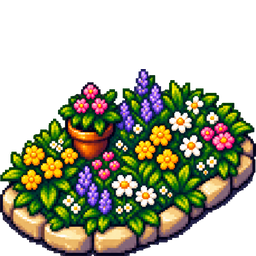
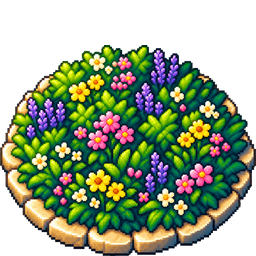
Transit sprites, a corrected flowerbed, and avenue road paint
Authored by Codex; committed here after independent verification.

Both open art items are done. The transit family has real sprites at
assets/transit/m{1,2,3}.png wired into infrastructureSpriteUrls, with
drawTransit kept as the pre-load fallback the other families all have. The
flowerbed was regenerated against the tree as its sole camera reference,
and the telling detail is that decorationMetrics.B is now identical to T
again — the old 1.10/0.93 nudge existed only to hide a camera mismatch, so
its removal is the evidence the mismatch is genuinely gone rather than
compensated for.

Codex then gave avenues their own road paint: double yellow centre lines,
dashed lane dividers, corner paint and zebra approach bars at junctions,
with wider bridge decks and outward railings. drawBridge takes an optional
avenue flag; wet() and the odd-level bridge test are untouched, so avenue
bridges still keep water underneath them.

Verified rather than taken on trust: 27/27 node tests, 7/7 QML hover tests,
qmllint, plugin validation and diff check all clean; all four PNGs are
256x256 with genuine alpha; runtime files and new assets match the installed
plugin byte-for-byte; the shell was restarted after deployment and its
journal is clean. The structural guard on the tier flyout still passes, so
the sprite wiring did not disturb the root-level flyout.

diff --git a/CityView.qml b/CityView.qml
@@ -783,6 +783,7 @@ Item {
   // Infrastructure tiers are zero-based (unlike the 1–3 zone growth levels).
   property bool useInfrastructureSprites: true
   readonly property var infrastructureSpriteUrls: ({
+    M: [Qt.resolvedUrl("assets/transit/m1.png").toString(), Qt.resolvedUrl("assets/transit/m2.png").toString(), Qt.resolvedUrl("assets/transit/m3.png").toString()],
     H: [Qt.resolvedUrl("assets/medical/h1.png").toString(), Qt.resolvedUrl("assets/medical/h2.png").toString(), Qt.resolvedUrl("assets/medical/h3.png").toString()],
     N: [Qt.resolvedUrl("assets/schools/n1.png").toString(), Qt.resolvedUrl("assets/schools/n2.png").toString(), Qt.resolvedUrl("assets/schools/n3.png").toString()],
     E: [Qt.resolvedUrl("assets/power/e1.png").toString(), Qt.resolvedUrl("assets/power/e2.png").toString(), Qt.resolvedUrl("assets/power/e3.png").toString()],
@@ -793,18 +794,11 @@ Item {
   })
   readonly property var spriteLotTints: ({ R: "rgba(80, 120, 78, 0.08)", C: "rgba(92, 122, 148, 0.12)", I: "rgba(122, 115, 97, 0.11)", E: "rgba(201, 162, 39, 0.10)", W: "rgba(47, 111, 148, 0.10)", F: "rgba(193, 67, 54, 0.08)", S: "rgba(58, 111, 224, 0.10)", P: "rgba(80, 132, 77, 0.08)", M: "rgba(197, 133, 47, 0.10)" })
 
-  // Decoration sprites are trimmed and then bottom-centred inside a 256px
-  // frame (see assets/decorations/PROMPTS.md), so how much of that frame each
-  // one actually paints differs a lot: the tree fills its full height, while
-  // the flowerbed is a wide flat oval covering only the bottom ~73%. Drawing
-  // both as the same bottom-anchored square left the bed visibly undersized,
-  // ringed by bare terrain. Each decoration therefore carries its own scale
-  // (fraction of the tile the sprite square spans) and baseline (how far down
-  // the tile that square's bottom edge sits) — tuned so the painted pixels,
-  // not the frame, end up filling the lot.
+  // Matching overhead camera and bottom-centred 256px cutouts. The flowerbed
+  // no longer needs a special scale/baseline to compensate for a tilted sprite.
   readonly property var decorationMetrics: ({
     T: { scale: 1.08, baseline: 0.97 },
-    B: { scale: 1.10, baseline: 0.93 }
+    B: { scale: 1.08, baseline: 0.97 }
   })
 
   // Data overlay painted over the finished map. Lives on its own thin Canvas
@@ -1277,44 +1271,65 @@ Item {
     return (hash ^ (hash >>> 16)) >>> 0
   }
 
-  // One renderer covers every topology: isolated tile, dead end, straight,
-  // corner, T-junction, and four-way crossing. Curbs are drawn only against
-  // non-road neighbors; markings follow the actual connection mask.
-  // Painted over a finished road rather than replacing it: an avenue is the
-  // same asphalt with a wider carriageway, and reusing drawRoad keeps the
-  // texture, curbs and junction logic identical between the two.
+  // Avenue paint uses the same topology as streets, but replaces (rather than
+  // overlays) the old centre dashes. Work in tile coordinates for seamless joins.
   function drawAvenueMarkings(ctx, gx, gy, cellSize, conn) {
-    var cx = gx + cellSize * 0.5, cy = gy + cellSize * 0.5
-    var gap = cellSize * 0.17
-    var sep = Math.max(0.7, cellSize * 0.05)
-    var w = Math.max(0.7, cellSize * 0.032)
     ctx.save()
-    ctx.fillStyle = "rgba(228, 188, 82, 0.7)"
-    if (conn.up) {
-      ctx.fillRect(cx - sep - w, gy, w, cellSize * 0.5 - gap)
-      ctx.fillRect(cx + sep, gy, w, cellSize * 0.5 - gap)
+    ctx.translate(gx + cellSize * 0.5, gy + cellSize * 0.5)
+    ctx.scale(cellSize, cellSize)
+    ctx.lineCap = "butt"
+    ctx.lineJoin = "round"
+    var count = Number(conn.up) + Number(conn.right) + Number(conn.down) + Number(conn.left)
+    var straight = (conn.up && conn.down) || (conn.left && conn.right)
+    var corner = count === 2 && !straight
+    var rotation = 0
+    if (corner) rotation = conn.up && conn.right ? 0 : conn.right && conn.down ? 1 : conn.down && conn.left ? 2 : 3
+    else if (count <= 2) rotation = conn.up ? 0 : conn.right ? 1 : conn.down ? 2 : conn.left ? 3 : 0
+    ctx.rotate(rotation * Math.PI / 2)
+    function path(offset) {
+      ctx.beginPath()
+      if (corner) {
+        ctx.moveTo(offset, -0.5)
+        ctx.quadraticCurveTo(offset, -offset, 0.5, -offset)
+      } else if (count <= 2) {
+        ctx.moveTo(offset, count === 0 ? -0.30 : -0.5)
+        ctx.lineTo(offset, count === 1 ? 0.12 : count === 0 ? 0.30 : 0.5)
+      } else {
+        if (conn.up) { ctx.moveTo(offset, -0.5); ctx.lineTo(offset, -0.30) }
+        if (conn.down) { ctx.moveTo(offset, 0.30); ctx.lineTo(offset, 0.5) }
+        if (conn.left) { ctx.moveTo(-0.5, offset); ctx.lineTo(-0.30, offset) }
+        if (conn.right) { ctx.moveTo(0.30, offset); ctx.lineTo(0.5, offset) }
+      }
+      ctx.stroke()
     }
-    if (conn.down) {
-      ctx.fillRect(cx - sep - w, cy + gap, w, cellSize * 0.5 - gap + 1)
-      ctx.fillRect(cx + sep, cy + gap, w, cellSize * 0.5 - gap + 1)
-    }
-    if (conn.left) {
-      ctx.fillRect(gx, cy - sep - w, cellSize * 0.5 - gap, w)
-      ctx.fillRect(gx, cy + sep, cellSize * 0.5 - gap, w)
-    }
-    if (conn.right) {
-      ctx.fillRect(cx + gap, cy - sep - w, cellSize * 0.5 - gap + 1, w)
-      ctx.fillRect(cx + gap, cy + sep, cellSize * 0.5 - gap + 1, w)
-    }
-    // A dead-end stub would otherwise show nothing at all.
-    if (!conn.up && !conn.down && !conn.left && !conn.right) {
-      ctx.fillRect(cx - sep - w, gy + cellSize * 0.2, w, cellSize * 0.6)
-      ctx.fillRect(cx + sep, gy + cellSize * 0.2, w, cellSize * 0.6)
+    ctx.setLineDash([])
+    ctx.strokeStyle = "#d4b45f"
+    ctx.lineWidth = 0.025
+    path(-0.035); path(0.035)
+    if (cellSize >= 20) {
+      ctx.strokeStyle = "rgba(235, 234, 219, 0.66)"
+      ctx.lineWidth = 0.018
+      // Qt Canvas dash lengths are device-space even under the tile transform.
+      ctx.setLineDash([cellSize * 0.12, cellSize * 0.13])
+      path(-0.245); path(0.245)
+      ctx.setLineDash([])
+      if (count >= 3) {
+        // Leave the turning area clear; zebra bars stay on each approach.
+        ctx.fillStyle = "rgba(228, 225, 207, 0.65)"
+        for (var arm = 0; arm < 4; arm++) {
+          if ([conn.up, conn.right, conn.down, conn.left][arm]) {
+            ctx.save(); ctx.rotate(arm * Math.PI / 2)
+            for (var stripe = 0; stripe < 6; stripe++)
+              ctx.fillRect(-0.34 + stripe * 0.12, -0.28, 0.07, 0.09)
+            ctx.restore()
+          }
+        }
+      }
     }
     ctx.restore()
   }
 
-  function drawRoad(ctx, gx, gy, cellSize, conn, index) {
+  function drawRoad(ctx, gx, gy, cellSize, conn, index, avenue) {
     ctx.save()
 
     // Layered asphalt: dark enough to frame the colorful buildings, with a
@@ -1366,7 +1381,7 @@ Item {
 
     // A three-tone curb reads at both overview and close zoom: dark gutter,
     // concrete face, then a hairline highlight toward the neighboring lot.
-    var edgeInset = cellSize * 0.035
+    var edgeInset = cellSize * (avenue ? 0.018 : 0.035)
     function drawCurb(x1, y1, x2, y2) {
       ctx.lineCap = "square"
       ctx.strokeStyle = "rgba(15, 16, 18, 0.72)"
@@ -1384,6 +1399,7 @@ Item {
     if (!conn.left) drawCurb(gx + edgeInset, gy + edgeInset, gx + edgeInset, gy + cellSize - edgeInset)
     if (!conn.right) drawCurb(gx + cellSize - edgeInset, gy + edgeInset, gx + cellSize - edgeInset, gy + cellSize - edgeInset)
 
+    if (avenue) { ctx.restore(); return }
     var count = (conn.up ? 1 : 0) + (conn.down ? 1 : 0)
       + (conn.left ? 1 : 0) + (conn.right ? 1 : 0)
     ctx.lineCap = "round"
@@ -3344,8 +3360,8 @@ Item {
       var roadConn = root.connectionsAt(index)
       if (tile.level % 2 === 1) {
         Waterfront.drawWater(ctx, gx, gy, cellSize, data, root.gridSize, index)
-        Waterfront.drawBridge(ctx, gx, gy, cellSize, roadConn)
-      } else root.drawRoad(ctx, gx, gy, cellSize, roadConn, index)
+        Waterfront.drawBridge(ctx, gx, gy, cellSize, roadConn, tile.level >= 2)
+      } else root.drawRoad(ctx, gx, gy, cellSize, roadConn, index, tile.level >= 2)
       if (tile.level >= 2) root.drawAvenueMarkings(ctx, gx, gy, cellSize, roadConn)
       break
     case Model.TILE_PARK:
@@ -3764,7 +3780,7 @@ Item {
                       root.drawRoad(ctx, 0, 0, width, { up: true, down: true, left: true, right: true })
                       break
                     case Model.TOOL_AVENUE:
-                      root.drawRoad(ctx, 0, 0, width, { up: true, down: true, left: false, right: false })
+                      root.drawRoad(ctx, 0, 0, width, { up: true, down: true, left: false, right: false }, 0, true)
                       root.drawAvenueMarkings(ctx, 0, 0, width, { up: true, down: true, left: false, right: false })
                       break
                     case Model.TILE_LAKE: Waterfront.drawWater(ctx, 0, 0, width, ['L0'], 1, 0); break

diff --git a/Waterfront.js b/Waterfront.js
@@ -46,30 +46,35 @@ function drawWater(ctx, x, y, s, data, size, index) {
   ctx.restore()
 }
 
-function drawBridge(ctx,x,y,s,conn) {
+function drawBridge(ctx,x,y,s,conn,avenue) {
   ctx.save();ctx.translate(x,y);ctx.scale(s,s)
   var vertical=conn.up||conn.down, horizontal=conn.left||conn.right
-  if(!vertical&&!horizontal) horizontal=true
+  if(!vertical&&!horizontal) {
+    if(avenue) vertical=true
+    else horizontal=true
+  }
+  var near=avenue?.065:.14, far=avenue?.905:.83
+  var deck=avenue?.085:.16, width=avenue?.84:.68
   ctx.fillStyle='rgba(10,27,33,.4)'
   if(vertical)ctx.fillRect(.11,0,.80,1)
   if(horizontal)ctx.fillRect(0,.11,1,.80)
   ctx.fillStyle='#555861'
-  if(vertical)ctx.fillRect(.16,0,.68,1)
-  if(horizontal)ctx.fillRect(0,.16,1,.68)
+  if(vertical)ctx.fillRect(deck,0,width,1)
+  if(horizontal)ctx.fillRect(0,deck,1,width)
   ctx.fillStyle='#c0b993'
-  for(var mark=0;mark<3;mark++) {
+  for(var mark=0;!avenue&&mark<3;mark++) {
     if(vertical)ctx.fillRect(.489,.06+mark*.34,.022,.18)
     if(horizontal)ctx.fillRect(.06+mark*.34,.489,.18,.022)
   }
   ctx.fillStyle='#a8a69a'
   // Rail segments leave connected side-road entrances open.
   if(vertical) for(var side=0;side<2;side++) {
-    var railX=side===0?.14:.83, opening=side===0?conn.left:conn.right
+    var railX=side===0?near:far, opening=side===0?conn.left:conn.right
     if(opening){ctx.fillRect(railX,0,.035,.16);ctx.fillRect(railX,.84,.035,.16)}
     else ctx.fillRect(railX,0,.035,1)
   }
   if(horizontal) for(var side=0;side<2;side++) {
-    var railY=side===0?.14:.83, opening=side===0?conn.up:conn.down
+    var railY=side===0?near:far, opening=side===0?conn.up:conn.down
     if(opening){ctx.fillRect(0,railY,.16,.035);ctx.fillRect(.84,railY,.16,.035)}
     else ctx.fillRect(0,railY,1,.035)
   }
@@ -77,12 +82,12 @@ function drawBridge(ctx,x,y,s,conn) {
   for(var post=0;post<4;post++) {
     var p=.035+post*.30
     if(vertical) {
-      if(!conn.left||p<.16||p>.84)ctx.fillRect(.13,p,.06,.05)
-      if(!conn.right||p<.16||p>.84)ctx.fillRect(.81,p,.06,.05)
+      if(!conn.left||p<.16||p>.84)ctx.fillRect(near-.01,p,.06,.05)
+      if(!conn.right||p<.16||p>.84)ctx.fillRect(far-.02,p,.06,.05)
     }
     if(horizontal) {
-      if(!conn.up||p<.16||p>.84)ctx.fillRect(p,.13,.05,.06)
-      if(!conn.down||p<.16||p>.84)ctx.fillRect(p,.81,.05,.06)
+      if(!conn.up||p<.16||p>.84)ctx.fillRect(p,near-.01,.05,.06)
+      if(!conn.down||p<.16||p>.84)ctx.fillRect(p,far-.02,.05,.06)
     }
   }
   ctx.restore()

diff --git a/assets/decorations/PROMPTS.md b/assets/decorations/PROMPTS.md
@@ -8,6 +8,25 @@ removed. No baked lot; CityView supplies shared terrain.
 
 Production Omaville city-builder decoration sprite: a single beautiful leafy deciduous tree, chunky warm trunk with branching roots, rounded lush green canopy with olive sunlit clusters and deep teal shade, tiny flowers at base. Match the reference's crisp detailed 32-bit pixel-art style, elevated orthographic camera, compact one-tile scale. Reference is style only: remove bench, lamp, path, other trees. One isolated tree, NO ground slab or lot. Genuine transparent alpha background like the reference, tiny contact shadow only. No checkerboard, text, opaque background, people. Readable at 32px.
 
-## Flowerbed
+## Flowerbed — historical prompt (superseded September 6)
 
 Production Omaville city-builder decoration sprite: a compact oval raised flowerbed edged in warm cream stones, abundant small pink, yellow, lavender and white flowers, lush low green leaves, one small decorative terracotta pot. Match the reference's crisp detailed 32-bit pixel-art style, elevated orthographic camera, compact one-tile scale. Reference is style only: no trees, bench, lamp or path. One isolated flowerbed, NO ground slab or lot. Genuine transparent alpha background like the reference, tiny contact shadow only. No checkerboard, text, opaque background, people. Readable at 32px.
+
+## Flowerbed — corrected camera, September 6
+
+Built-in imagegen with tree.png as the sole style/camera reference. Original
+RGBA export retained in sources/flowers-overhead.png; final flowers.png is
+256x256, trimmed and bottom-centred. Local normalization (authorized by Keith):
+
+```bash
+magick assets/decorations/sources/flowers-overhead.png -channel A -threshold 5% +channel -trim +repage -filter Lanczos -resize '256x256>' -gravity south -background none -extent 256x256 -strip -define png:color-type=6 assets/decorations/flowers.png
+```
+
+Final generation prompt:
+
+Use case: stylized-concept. Production Omaville flowerbed game sprite. Input image is STYLE, LIGHTING AND CAMERA reference only: the existing tree. Generate one compact circular low flowerbed viewed from the SAME elevated near-overhead orthographic camera as the tree, looking down around 70 degrees. Bed is on horizontal ground: a broad near-circular oval, width only about 1.2 times its depth, NOT a thin diagonal diamond or tilted tray. Very low warm cream stone edging, mostly top surfaces visible, minimal vertical front wall. Dense low green foliage and distinct small pink, yellow, lavender flowers with a few cream flowers. Crisp warm detailed 32-bit pixel-art clusters matching tree; sunlight upper-left, cool teal leaf shadows. No tree, pot, grass square, pavement, backdrop, caption, or surrounding ground slab. Single isolated complete object on genuine transparent RGBA background, tiny contact shadow only. Centre horizontally and bottom align on square canvas, use most of canvas width with small clear margin. Readable at 32px. No painted checkerboard. Preserve clear calm outer silhouette.
+
+CityView.decorationMetrics.B now matches T: scale1.08, baseline0.97.
+The actual drawTile branch is exercised beside the tree by
+`node tests/infrastructure-art.mjs --preview`, at large and 48px sizes.
+Tests additionally pin equal scale/baseline and drawing at four zoom levels.

diff --git a/assets/transit/PROMPTS.md b/assets/transit/PROMPTS.md
@@ -1,0 +1,42 @@
+# Transit sprites — 2026-09-06
+
+Built-in imagegen; references: assets/schools/n1.png and assets/medical/h1.png.
+Final paths: m1.png (Bus Depot), m2.png (Tram Line), m3.png (Transit Hub).
+No mechanics or save changes. Keep drawTransit fallback and root-level flyout.
+
+## Shared generation prompt
+
+Use case: stylized-concept. Production Omaville game sprite. Input images are STYLE AND CAMERA references only. Match their crisp warm detailed 32-bit pixel art, elevated orthographic near-overhead camera, lower-left-facing front, compact single-tile silhouette readable at 32px. Cool slate-blue canopies, cream masonry, amber transit vehicles. ONE isolated complete facility, bottom-centred, square 256x256 RGBA PNG if possible. Genuine alpha transparency outside the object: NOT a painted checkerboard. No ground slab, surrounding road, people, lettering, logos, border, broad glow or broad cast shadow. Tiny contact shadow only. Keep whole facility visible with small margins. 
+
+## Subjects
+
+### m1.png
+
+Tier 1 BUS DEPOT: modest neighborhood transit shelter with a small cream brick ticket kiosk under a slate-blue pitched canopy, one bench, one short kerbed boarding platform, and ONE stubby amber-yellow city bus with dark windows beside the canopy, facing lower-left. Clear simple bus silhouette, not a garage.
+
+### m2.png
+
+Tier 2 TRAM LINE: compact tram station, longer slate-blue canopy supported on slim cream posts, one slim amber-and-cream articulated tram on a short section of twin steel rails, rails running lower-left to upper-right. One overhead wire between two slender poles and visible pantograph on tram roof. Pale narrow boarding platform, no broad surrounding ground. Rails and wire distinguish it from a bus stop.
+
+### m3.png
+
+Tier 3 TRANSIT HUB: compact multi-modal interchange, two-storey cream masonry concourse with central clock gable and broad slate-blue butterfly canopy, TWO short bus bays holding amber buses facing lower-left, one short tram rail platform along its right side with amber tram. Dense but clearly readable and cohesive, not a sprawling diorama. All elements fit one square game tile. Distinct clock-hall silhouette.
+
+## Status
+
+Complete: all three sprites are 256x256 RGBA with genuine transparency, fitted
+to 248px maximum and bottom-centred. Generated via built-in imagegen, then
+locally cleaned with Keith's explicit permission after two generator passes
+returned opaque checkerboards. `drafts/` preserves the input artwork.
+
+Reproduce cleanup with `bash assets/transit/prepare.sh`. It removes bright
+neutral checkerboard pixels, including enclosed canopy/rail gaps, then trims
+and downsamples with alpha intact. This threshold is specific to these images;
+do not apply to unrelated art without inspection. No generated/API fallback
+or additional paid image calls were used for the cleanup.
+
+Visually checked against green terrain and via actual production draw helpers
+at 32/48px and larger. `node tests/infrastructure-art.mjs --preview` reproduces
+that Qt preview without loading or changing a city save. Infrastructure tests
+now cover 24 tiers, including transit map, preview, loading and disabled paths.
+All 26 test scripts, qmllint and plugin validation pass.

diff --git a/assets/INFRASTRUCTURE_PROMPTS.md b/assets/INFRASTRUCTURE_PROMPTS.md
@@ -41,7 +41,10 @@ Power tiers 2 and 3 also received a background-extraction edit preserving the bu
 Water tiers 2 and 3 required background-extraction edits. The final treatment-plant extraction used the transparent power-plant sprite as a cutout-delivery reference. All three final outputs were verified to have genuine alpha before normalization.
 
 
-## assets/transit — NOT YET GENERATED
+## assets/transit — generated September 6
+
+Final assets and actual prompt/cleanup details: assets/transit/PROMPTS.md.
+Draft briefing below retained for reference; all three sprites are now wired.
 
 Drafted by Claude for Codex/Astra; no images exist yet. The game currently
 falls back to `CityView.drawTransit`, a flat code-drawn canopy-and-buses
